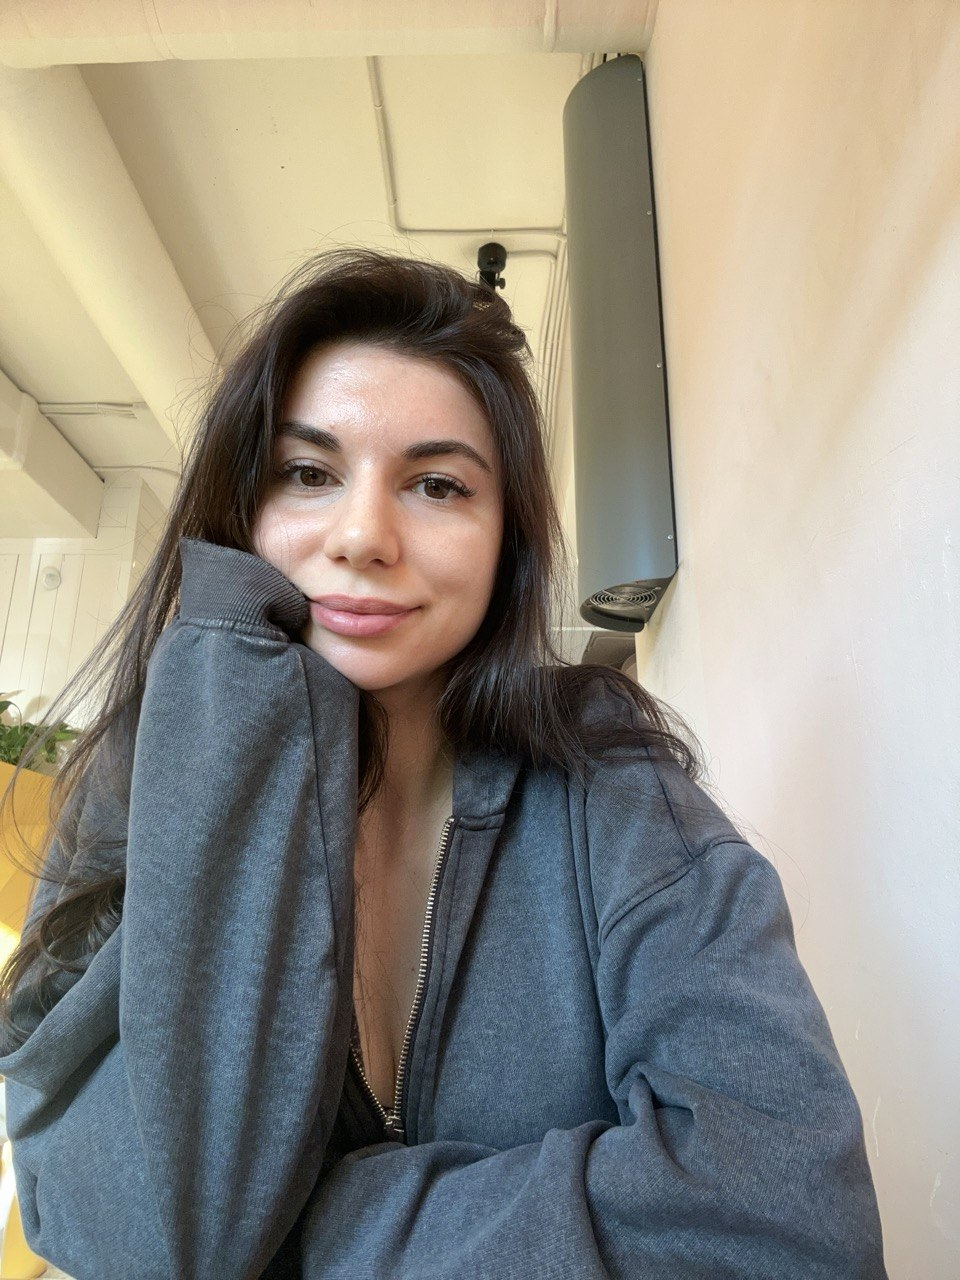
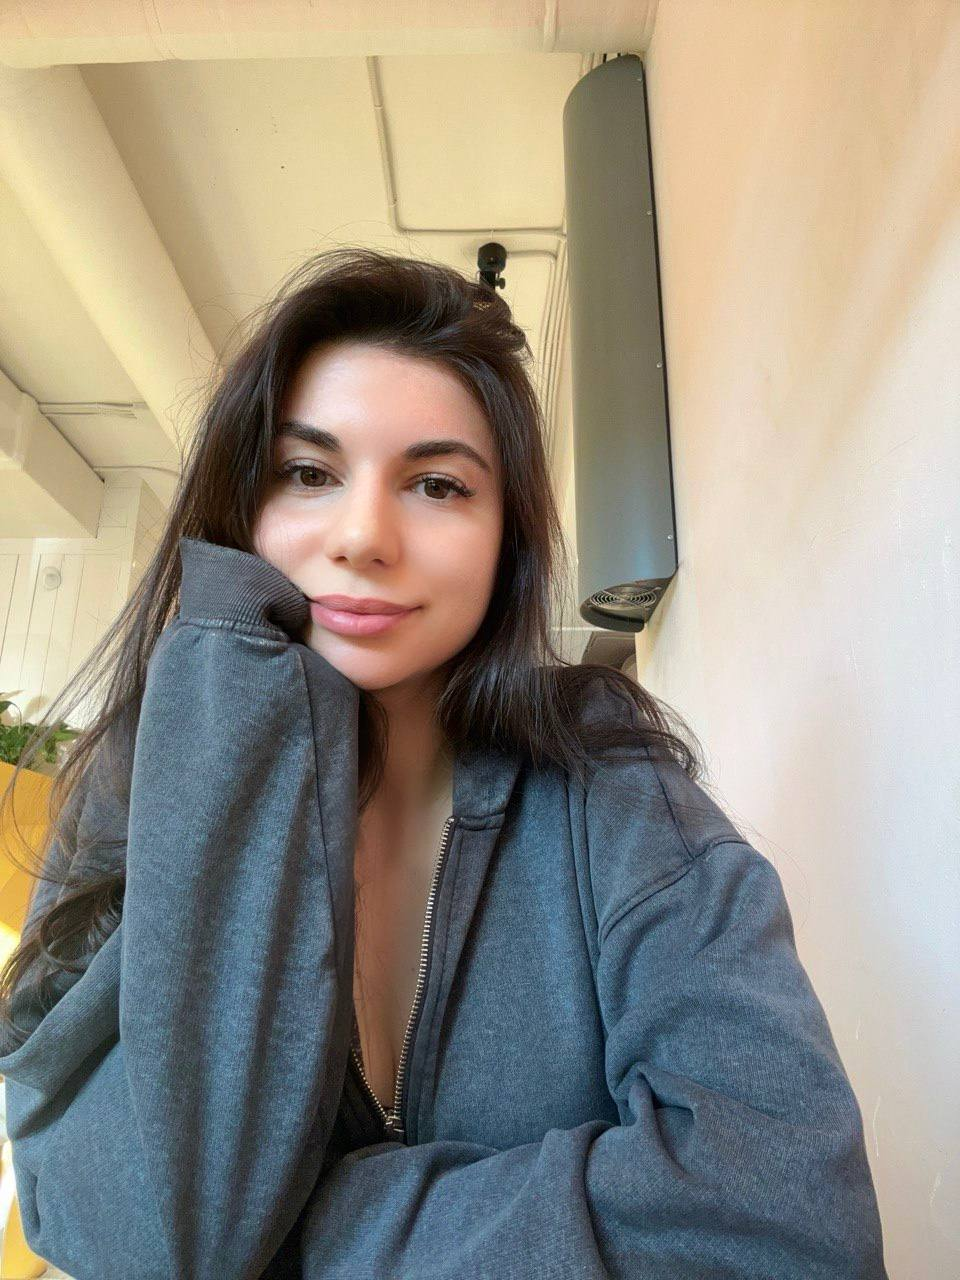
feat: add links to hero

Changed region(s): [[0.4375, 0.4375, 0.4688, 0.4688], [0.0, 0.6562, 0.0312, 0.6875]]

diff --git a/react-cv/src/components/Hero/Hero.tsx b/react-cv/src/components/Hero/Hero.tsx
@@ -6,24 +6,35 @@ import github from '../../assets/images/github-icon.svg';
 import telegram from '../../assets/images/telegram-icon.svg';
 
 const Hero = () => {
+  const githubLink = 'https://github.com/Shakhrii';
+  const telegramLink = 'https://t.me/Shakhrii'
+
   return (
-    <section className={`${cls.hero} section`}>
-      <div className={cls.greetings}>
-        <h1 className={cls.name}>
-          Привет! <br />Я Шахпери Рамалданова
-        </h1>
-        <h2 className={cls.details}>frontend react developer</h2>
-        <div className={cls.contact}>
-          <Button>Написать мне</Button>
-          <Icon>
-            <img src={github} alt="github"/>
-          </Icon>
-          <Icon>
-            <img src={telegram} alt="telegram"/>
-          </Icon>
+    <section className={cls.hero}>
+      <div className={`${cls['hero-wrapper']} section`}>
+        <div className={cls.greetings}>
+          <h1 className={cls.name}>
+            Привет! <br />Я Шахри Рамалданова
+          </h1>
+          <h2 className={cls.details}>frontend react developer</h2>
+          <div className={cls.contact}>
+            <Button>Написать мне</Button>
+            <a href={githubLink} target="_blank" className={cls.button}>
+              <Icon>
+                <img src={github} alt="github"/>
+              </Icon>
+            </a>
+            
+            <a href={telegramLink} target="_blank" className={cls.button}>
+              <Icon>
+                <img src={telegram} alt="telegram"/>
+              </Icon>
+            </a>
+          </div>
         </div>
+        <img src={photo} alt="my photo" className={cls.photo} />
       </div>
-      <img src={photo} alt="my photo" className={cls.photo} />
+      <div className={cls.line}></div>
     </section>
   );
 };

diff --git a/react-cv/src/components/Header/Header.module.css b/react-cv/src/components/Header/Header.module.css
@@ -1,5 +1,5 @@
 .header {
-  background-color: #0A0A0A;
+  background-color: var(--background-color);
   padding: 24px 0;
 }
 
@@ -15,7 +15,7 @@
 .logo {
   text-decoration: none;
   font-family: "Bebas Neue";
-  color: #C7C7C7;
+  color: var(--text-color-grey);
   font-size: 20px;
   font-weight: 700;
   text-transform: uppercase;
@@ -31,7 +31,7 @@
 
 .menu a {
   text-decoration: none;
-  color: #C7C7C7;
+  color: var(--text-color-grey);
   font-family: "Bebas Neue";
 }
 

diff --git a/react-cv/src/components/Hero/Hero.module.css b/react-cv/src/components/Hero/Hero.module.css
@@ -1,4 +1,8 @@
 .hero {
+
+}
+
+.hero-wrapper {
   display: flex;
   flex-direction: row;
   justify-content: center;
@@ -23,7 +27,7 @@
 .details {
   font-family: "Bebas Neue";
   font-size: 18px;
-  color: #C7C7C7;
+  color: vra(--text-color-grey);
   margin: 0 0 40px 0;
   padding: 0;
 }
@@ -40,4 +44,10 @@
   height: 500px;
   border-radius: 16px;
   object-fit: cover;
+}
+
+.line {
+  width: 100%;
+  height: 1px;
+  background-color: #484848;
 }

diff --git a/react-cv/src/index.css b/react-cv/src/index.css
@@ -1,3 +1,9 @@
+:root {
+  --accent-color: #D3E97A;
+  --text-color-grey: #C7C7C7;
+  --background-color: #0A0A0A;
+}
+
 @font-face {
   font-family: "Bebas Neue";
   src: url("./assets/fonts/bebasneuecyrillic.ttf") format("truetype");
@@ -6,7 +12,7 @@
 }
 
 html, body {
-  background-color: #0A0A0A;
+  background-color: var(--background-color);
 }
 
 * {

diff --git a/react-cv/src/components/Header/Header.tsx b/react-cv/src/components/Header/Header.tsx
@@ -20,7 +20,7 @@ const Header = () => {
     <header className={cls.header}>
       <div className={cls.container}>
         <a href="/" className={cls.logo}>
-          ШАХПЕРИ РАМАЛДАНОВА
+          ШАХРИ РАМАЛДАНОВА
         </a>
 
         <nav>

diff --git a/react-cv/src/pages/Home/Home.tsx b/react-cv/src/pages/Home/Home.tsx
@@ -1,7 +1,10 @@
 import { Hero } from "../../components/Hero";
 
 const Home = () => {
-  return <Hero></Hero>;
+  return (
+    <Hero>
+    </Hero>)
+  ;
 }
 
 export default Home;

diff --git a/react-cv/src/components/Button/Button.module.css b/react-cv/src/components/Button/Button.module.css
@@ -1,5 +1,5 @@
 .button {
-  background-color: #D3E97A;
+  background-color: var(--accent-color);
   border-radius: 25px;
   color: black;
   padding: 10px 20px;
